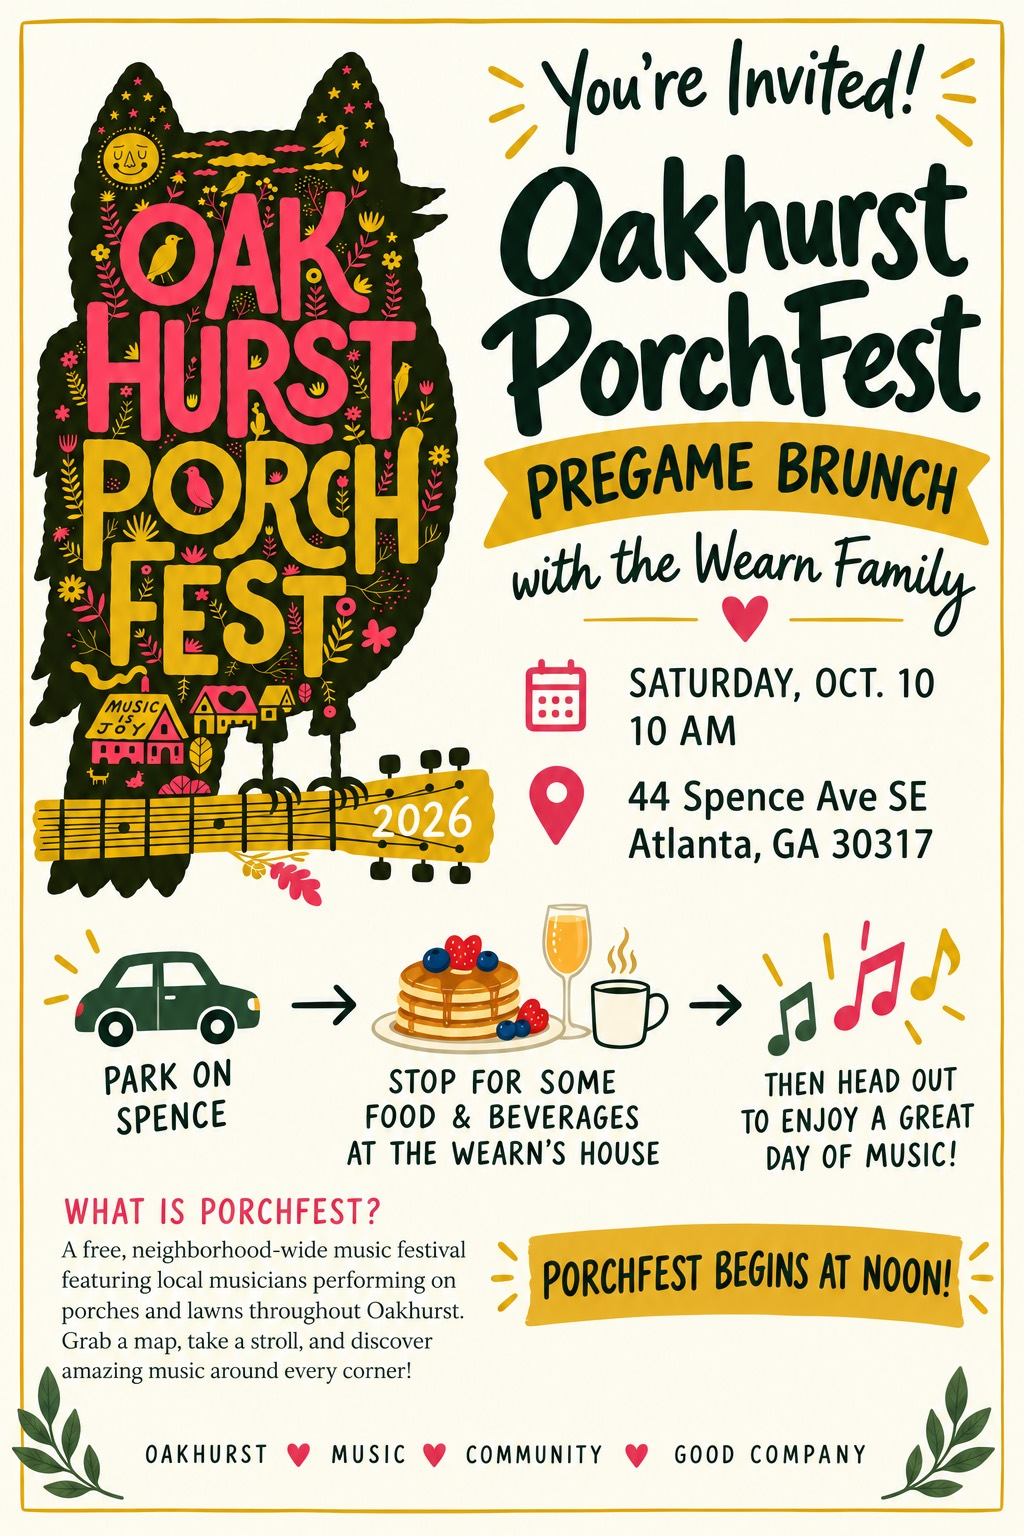
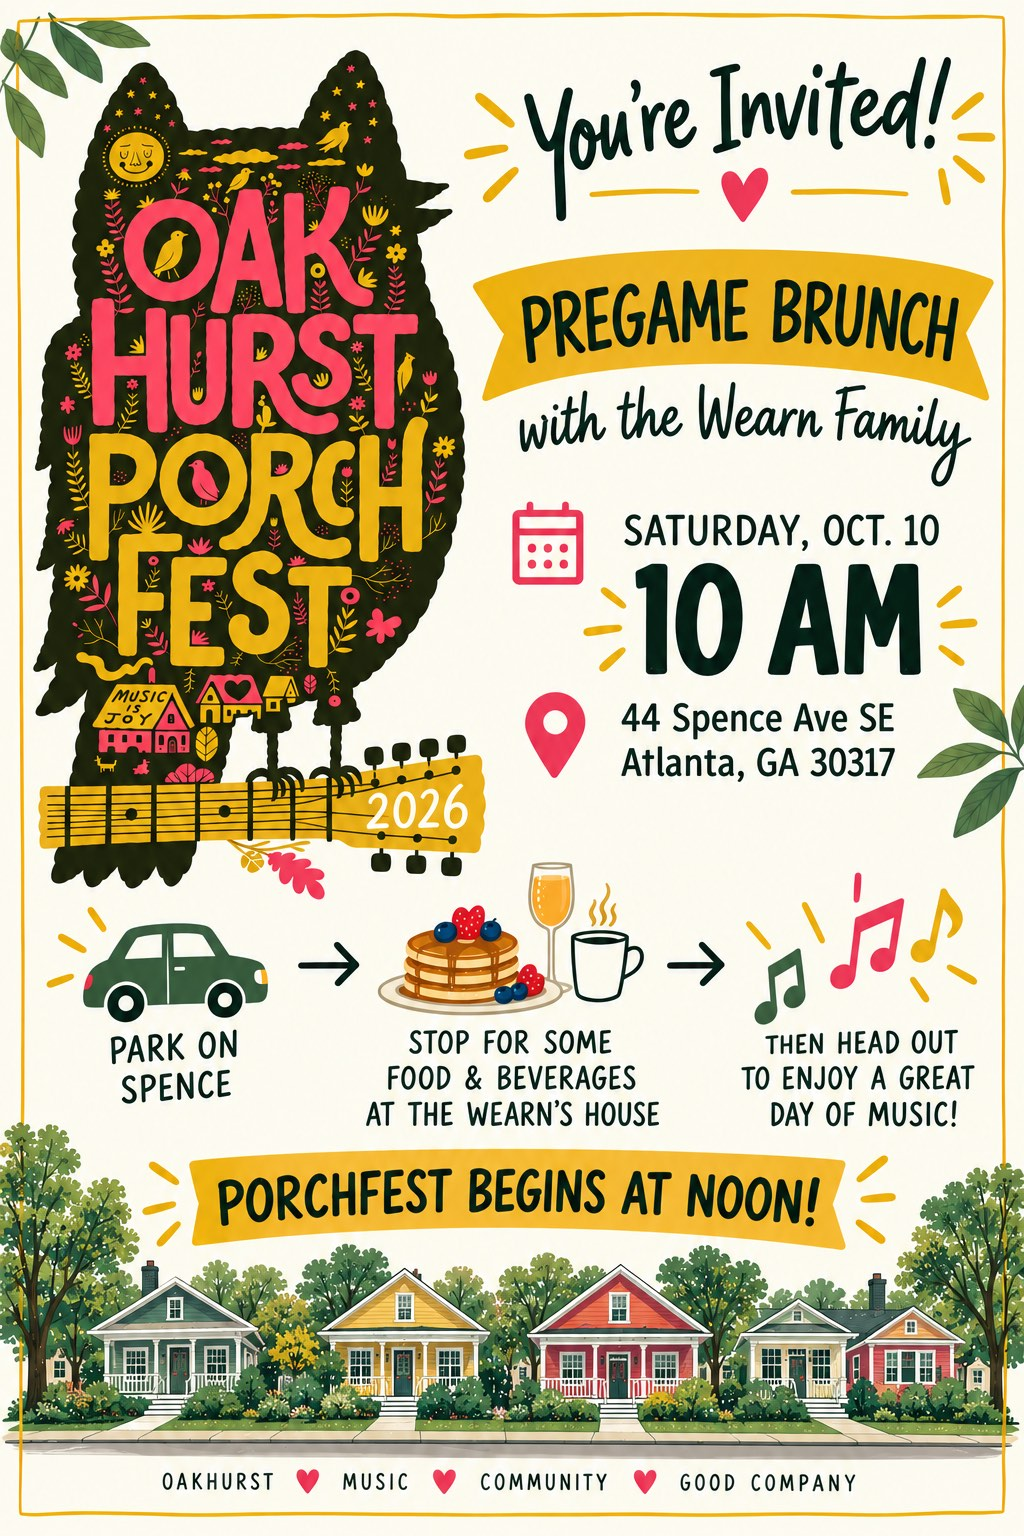
Porchfest page: new invite, envelope and layout fixes
- Use the updated invite. It drops the "What is Porchfest?" text, so the
  page's section is now the only place it appears.
- Cut the envelope flap and front with CSS polygons, not SVG clipPaths,
  which Firefox rendered with a gap at the top corners. The mustard
  inside also stays hidden until the flap opens, so a seam can't show it.
- Line the flap up with the envelope's sides, lighten the greens, and
  put a music note on the seal instead of a heart.
- Don't render the content below the invite until the reveal, and clip
  the stage during the animation, so there's nothing to scroll to while
  the envelope is closed.
- Size the stage and the open card from a screen height measured once,
  not a viewport unit. Mobile Safari changed it as the toolbar
  collapsed, and the card jumped between sizes on scroll. Leave room
  under the card for the RSVP button so short screens still show it.
- Remove the page border and the "Porchfest begins at noon!" banner,
  which is already on the invite.

diff --git a/src/porchfest/Envelope.tsx b/src/porchfest/Envelope.tsx
@@ -4,9 +4,16 @@ import type { Phase } from './useEnvelope'
 
 const EASE = 'cubic-bezier(0.4, 0, 0.2, 1)'
 
+// The flap and the V cut out of the front, as CSS polygons. The wedding invite
+// used SVG clipPaths in objectBoundingBox units, which Firefox rendered with a
+// gap at the top corners where the two shapes should overlap. The points either
+// side of each tip round it off.
+const LID = 'polygon(0 0, 48% 94%, 50% 97%, 52% 94%, 100% 0)'
+const CUTOUT = 'polygon(0 0, 0 100%, 100% 100%, 100% 0, 97% 0, 52% 48%, 50% 50%, 48% 48%, 3% 0)'
+
 // Ported from the wedding invite (anupamaandjackson, src/routes/Invite.tsx), cut
-// down to one card and recoloured from the invite: the owl's dark green outside,
-// mustard inside, and a rose heart seal where the flap meets.
+// down to one card and recoloured from the invite: green outside, mustard inside,
+// and a rose seal with a music note where the flap meets.
 const Envelope: React.FC<{ phase: Phase; onOpen: () => void }> = ({ phase, onOpen }) => {
   const image = useRef<HTMLImageElement>(null)
   const [ready, setReady] = useState(false)
@@ -36,19 +43,16 @@ const Envelope: React.FC<{ phase: Phase; onOpen: () => void }> = ({ phase, onOpe
 
   const fade = { opacity: hidden ? 0 : 1, transition: 'opacity 700ms ease-out' }
 
+  // The mustard inside only exists once the flap starts to open, so no seam
+  // between the front and the flap can show a hairline of yellow while it is
+  // closed. It appears instantly on opening, where the flap is already in front
+  // of it, and fades out with the rest of the envelope.
+  const insideShown = flapOpen && !hidden
+  const insideOpacity = insideShown ? 1 : 0
+  const insideFade = `opacity ${insideShown ? 0 : 700}ms ease-out`
+
   return (
     <div className="envelope relative">
-      <svg width="0" height="0" className="absolute" aria-hidden="true">
-        <defs>
-          <clipPath id="lid-shape" clipPathUnits="objectBoundingBox">
-            <path d="M 0 0 L 0.48 0.94 Q 0.5 0.98, 0.52 0.94 L 1 0 Z" />
-          </clipPath>
-          <clipPath id="envelope-cutout" clipPathUnits="objectBoundingBox">
-            <path d="M 0 0 L 0 1 L 1 1 L 1 0 L 0.97 0 L 0.52 0.48 Q 0.5 0.52, 0.48 0.48 L 0.03 0 Z" />
-          </clipPath>
-        </defs>
-      </svg>
-
       <div
         className="relative w-full"
         style={{
@@ -61,32 +65,32 @@ const Envelope: React.FC<{ phase: Phase; onOpen: () => void }> = ({ phase, onOpe
         {/* Inside of the envelope */}
         <div
           className="absolute inset-0 rounded-b-lg bg-gradient-to-b from-[#e8bd3f] to-[#d6a21f]"
-          style={{ zIndex: 1, ...fade }}
+          style={{ zIndex: 1, opacity: insideOpacity, transition: insideFade }}
         />
 
         {/* Back half of the flap, which swings up behind the card */}
         <div
-          className="absolute top-0 -right-px -left-px"
+          className="absolute inset-x-0 top-0"
           style={{
             transformOrigin: 'top center',
             transform: flapOpen ? 'rotateX(180deg)' : 'rotateX(90deg)',
-            transition: 'transform 350ms ease-out 350ms, opacity 700ms ease-out',
+            transition: `transform 350ms ease-out 350ms, ${insideFade}`,
             zIndex: 3,
-            opacity: hidden ? 0 : 1,
+            opacity: insideOpacity,
           }}
         >
           <div
             className="w-full bg-gradient-to-b from-[#e8bd3f] to-[#d6a21f]"
-            style={{ clipPath: 'url(#lid-shape)', aspectRatio: '1.9/1' }}
+            style={{ clipPath: LID, aspectRatio: '1.9/1' }}
           />
         </div>
 
         {/* Front of the envelope, with the V cut out so the flap sits in it */}
         <div
-          className="absolute inset-0 overflow-hidden rounded-b-lg bg-gradient-to-b from-[#2c3f29] to-[#1f2d1d] shadow-xl"
-          style={{ zIndex: 10, clipPath: 'url(#envelope-cutout)', ...fade }}
+          className="absolute inset-0 overflow-hidden rounded-b-lg bg-gradient-to-b from-[#4f6b45] to-[#3e5637] shadow-xl"
+          style={{ zIndex: 10, clipPath: CUTOUT, ...fade }}
         >
-          <div className="absolute inset-x-0 bottom-0 h-1/3 bg-gradient-to-t from-black/20 to-transparent" />
+          <div className="absolute inset-x-0 bottom-0 h-1/3 bg-gradient-to-t from-black/10 to-transparent" />
           <p className="absolute inset-x-0 bottom-[9%] text-center font-script text-3xl text-mustard sm:text-4xl">
             You're invited!
           </p>
@@ -127,7 +131,7 @@ const Envelope: React.FC<{ phase: Phase; onOpen: () => void }> = ({ phase, onOpe
 
         {/* Front half of the flap, with the seal on its point */}
         <div
-          className="absolute top-0 -right-px -left-px"
+          className="absolute inset-x-0 top-0"
           style={{
             transformOrigin: 'top center',
             transform: flapOpen ? 'rotateX(90deg)' : 'rotateX(0deg)',
@@ -137,15 +141,15 @@ const Envelope: React.FC<{ phase: Phase; onOpen: () => void }> = ({ phase, onOpe
           }}
         >
           <div
-            className="w-full bg-gradient-to-b from-[#3a5236] to-[#2c3f29] shadow-md"
-            style={{ clipPath: 'url(#lid-shape)', aspectRatio: '1.9/1' }}
+            className="w-full bg-gradient-to-b from-[#62805a] to-[#4f6b45]"
+            style={{ clipPath: LID, aspectRatio: '1.9/1' }}
           />
           <span
             className="absolute top-[88%] left-1/2 flex size-12 -translate-x-1/2 -translate-y-1/2 items-center justify-center rounded-full bg-rose shadow-md ring-4 ring-paper/25 sm:size-14"
             aria-hidden="true"
           >
             <svg viewBox="0 0 24 24" className="size-6 fill-paper sm:size-7">
-              <path d="M12 21s-7.5-4.6-9.6-9.2C.9 8.4 3 4.5 6.7 4.5c2.1 0 3.9 1.3 5.3 3 1.4-1.7 3.2-3 5.3-3 3.7 0 5.8 3.9 4.3 7.3C19.5 16.4 12 21 12 21z" />
+              <path d="M9 4.5 20 2v13.2a3 3 0 1 1-2-2.83V6.1l-7 1.56v9.54a3 3 0 1 1-2-2.83z" />
             </svg>
           </span>
         </div>

diff --git a/src/porchfest/Page.tsx b/src/porchfest/Page.tsx
@@ -1,6 +1,6 @@
-import React from 'react'
+import React, { useEffect, useRef } from 'react'
 import Envelope from './Envelope'
-import { porchfestUrl, rsvpUrl, startsAt, tagline, whatIsPorchfest } from './content'
+import { porchfestUrl, rsvpUrl, tagline, whatIsPorchfest } from './content'
 import { useEnvelope } from './useEnvelope'
 
 // A burst of notes out of the card as it lands. Fixed rather than random so a
@@ -41,34 +41,34 @@ const Heart: React.FC = () => (
   </svg>
 )
 
-// The little sunburst dashes either side of the invite's ribbons.
-const Ticks: React.FC<{ flip?: boolean }> = ({ flip }) => (
-  <svg
-    viewBox="0 0 16 28"
-    className={`h-7 w-4 shrink-0 stroke-mustard ${flip ? '-scale-x-100' : ''}`}
-    strokeWidth="3"
-    strokeLinecap="round"
-    aria-hidden="true"
-  >
-    <path d="M3 4 L13 9 M2 14 L13 14 M3 24 L13 19" />
-  </svg>
-)
-
 const Page: React.FC = () => {
   const { phase, open, still } = useEnvelope()
   const revealed = phase === 'revealed'
+  const stage = useRef<HTMLElement>(null)
+
+  // The stage and the open card are sized from the screen height, measured once
+  // rather than read live from a viewport unit. Mobile Safari changes the
+  // viewport height as its toolbar collapses and expands while scrolling, which
+  // made the card jump between sizes. Re-measured only when the width changes,
+  // which is what a rotation does and a toolbar does not.
+  useEffect(() => {
+    let width = 0
+    const measure = () => {
+      if (window.innerWidth === width) return
+      width = window.innerWidth
+      stage.current?.style.setProperty('--screen-h', `${window.innerHeight}px`)
+    }
+    measure()
+    window.addEventListener('resize', measure)
+    return () => window.removeEventListener('resize', measure)
+  }, [])
 
   return (
     <div className="min-h-svh overflow-x-clip font-body text-ink">
-      {/* The invite's thin mustard frame, around the whole screen */}
-      <div
-        className="pointer-events-none fixed inset-2 z-60 rounded-sm border-2 border-mustard/70"
-        aria-hidden="true"
-      />
-
       <h1 className="sr-only">Oakhurst Porchfest Pregame Brunch with the Wearn Family</h1>
 
       <section
+        ref={stage}
         className="stage relative flex items-center justify-center"
         data-revealed={revealed || undefined}
       >
@@ -107,10 +107,11 @@ const Page: React.FC = () => {
         )}
       </section>
 
+      {/* Not rendered as space until the reveal, so there is nothing to scroll to
+          while the envelope is still closed. */}
       <main
-        inert={!revealed}
-        className="mx-auto flex max-w-xl flex-col items-center gap-12 px-6 pb-16 transition-opacity delay-300 duration-700"
-        style={{ opacity: revealed ? 1 : 0 }}
+        hidden={!revealed}
+        className="fade-in mx-auto flex max-w-xl flex-col items-center gap-12 px-6 pb-16"
       >
         <div className="flex w-full flex-col gap-3 sm:flex-row sm:justify-center">
           <a
@@ -130,12 +131,6 @@ const Page: React.FC = () => {
             Oakhurst Porchfest website
           </a>
         </div>
-
-        <p className="flex items-center gap-3 font-hand text-2xl sm:text-3xl">
-          <Ticks />
-          <span className="-rotate-1 bg-mustard px-6 py-2 shadow-sm">{startsAt}</span>
-          <Ticks flip />
-        </p>
 
         <section aria-labelledby="what-is" className="w-full">
           <h2 id="what-is" className="font-hand text-2xl tracking-wide text-rose uppercase">

diff --git a/src/porchfest/Page.test.tsx b/src/porchfest/Page.test.tsx
@@ -10,9 +10,18 @@ afterEach(() => {
 
 const invite = () => screen.getByRole('img', { name: /pregame brunch/i })
 
+// Render and play the envelope through to the reveal.
+const renderOpened = () => {
+  vi.useFakeTimers()
+  render(<Page />)
+  fireEvent.load(invite())
+  fireEvent.click(screen.getByRole('button', { name: /tap to open/i }))
+  act(() => vi.advanceTimersByTime(2500))
+}
+
 describe('the porchfest page', () => {
   it('links to the RSVP form and the Porchfest site, both in a new tab', () => {
-    render(<Page />)
+    renderOpened()
 
     const rsvp = screen.getByRole('link', { name: 'RSVP' })
     const site = screen.getByRole('link', { name: /porchfest website/i })
@@ -25,7 +34,7 @@ describe('the porchfest page', () => {
   })
 
   it('says what Porchfest is', () => {
-    render(<Page />)
+    renderOpened()
 
     expect(screen.getByRole('heading', { name: 'What is Porchfest?' })).toBeInTheDocument()
     expect(screen.getByText(whatIsPorchfest)).toBeInTheDocument()
@@ -48,19 +57,20 @@ describe('the porchfest page', () => {
     expect(screen.getByRole('button', { name: /tap to open/i })).toBeEnabled()
   })
 
-  it('keeps the links out of reach until the envelope is opened', () => {
+  // Hidden rather than just transparent, so a closed envelope leaves nothing
+  // below it to scroll to.
+  it('keeps everything below the envelope hidden until it is opened', () => {
     vi.useFakeTimers()
     render(<Page />)
-    const rsvp = screen.getByRole('link', { name: 'RSVP' })
-    expect(rsvp.closest('[inert]')).not.toBeNull()
+    expect(screen.queryByRole('link', { name: 'RSVP' })).not.toBeInTheDocument()
 
     fireEvent.load(invite())
     fireEvent.click(screen.getByRole('button', { name: /tap to open/i }))
     act(() => vi.advanceTimersByTime(2499))
-    expect(rsvp.closest('[inert]')).not.toBeNull()
+    expect(screen.queryByRole('link', { name: 'RSVP' })).not.toBeInTheDocument()
 
     act(() => vi.advanceTimersByTime(1))
-    expect(rsvp.closest('[inert]')).toBeNull()
+    expect(screen.getByRole('link', { name: 'RSVP' })).toBeVisible()
     expect(screen.queryByRole('button', { name: /tap to open/i })).not.toBeInTheDocument()
   })
 
@@ -71,6 +81,6 @@ describe('the porchfest page', () => {
     render(<Page />)
 
     expect(screen.queryByRole('button', { name: /tap to open/i })).not.toBeInTheDocument()
-    expect(screen.getByRole('link', { name: 'RSVP' }).closest('[inert]')).toBeNull()
+    expect(screen.getByRole('link', { name: 'RSVP' })).toBeVisible()
   })
 })

diff --git a/src/porchfest/styles.css b/src/porchfest/styles.css
@@ -32,12 +32,19 @@ body {
  * 0.62 x 1.5 = 0.93. Open, the card grows to fill the column, and the stage
  * shrinks from a full screen to exactly the card plus a margin, which is what
  * pulls the rest of the page up underneath it.
+ *
+ * The open card is also capped by the screen height, leaving room below it for
+ * the top of the RSVP button, so a wide screen still shows there is more page.
+ *
+ * Clipped until the reveal, because the envelope drops below the screen as the
+ * card rises out, and that would otherwise make the page scrollable
+ * mid-animation. Not after, or it would cut off the card's shadow.
  */
 .stage {
   --env-w: min(22rem, 100vw - 2.5rem);
   --card-closed: calc(var(--env-w) * 0.62);
-  --card-open: min(100vw - 2rem, 32rem, (100svh - 4rem) / 1.5);
-  height: 100svh;
+  --card-open: min(100vw - 2rem, 32rem, (var(--screen-h, 100svh) - 9rem) / 1.5);
+  height: var(--screen-h, 100svh);
   transition: height 900ms cubic-bezier(0.4, 0, 0.2, 1);
 }
 
@@ -45,6 +52,10 @@ body {
   .stage {
     --env-w: 26rem;
   }
+}
+
+.stage:not([data-revealed]) {
+  overflow: clip;
 }
 
 .stage[data-revealed] {
@@ -81,6 +92,16 @@ body {
   animation: note-float 2.6s ease-out var(--delay) both;
 }
 
+@keyframes fade-in {
+  from {
+    opacity: 0;
+  }
+}
+
+.fade-in {
+  animation: fade-in 700ms ease-out 300ms both;
+}
+
 @keyframes nudge {
   0%,
   100% {
@@ -103,7 +124,8 @@ body {
   .note {
     display: none;
   }
-  .nudge {
+  .nudge,
+  .fade-in {
     animation: none;
   }
 }

diff --git a/src/porchfest/content.ts b/src/porchfest/content.ts
@@ -23,6 +23,4 @@ export const whatIsPorchfest =
   'and lawns throughout Oakhurst. Grab a map, take a stroll, and discover amazing music around ' +
   'every corner!'
 
-export const startsAt = 'Porchfest begins at noon!'
-
 export const tagline = ['Oakhurst', 'Music', 'Community', 'Good Company']
